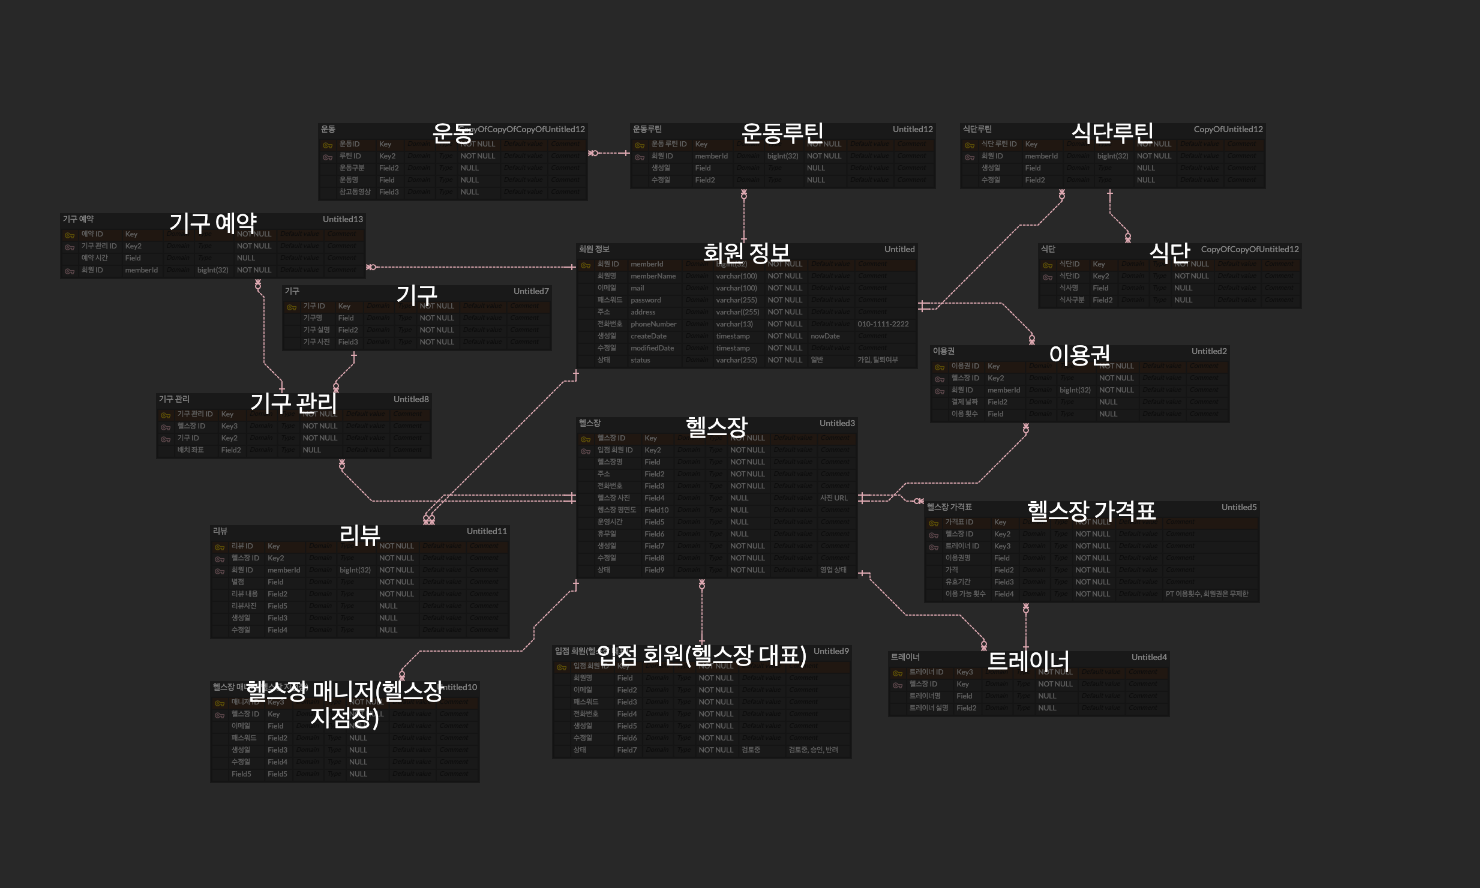
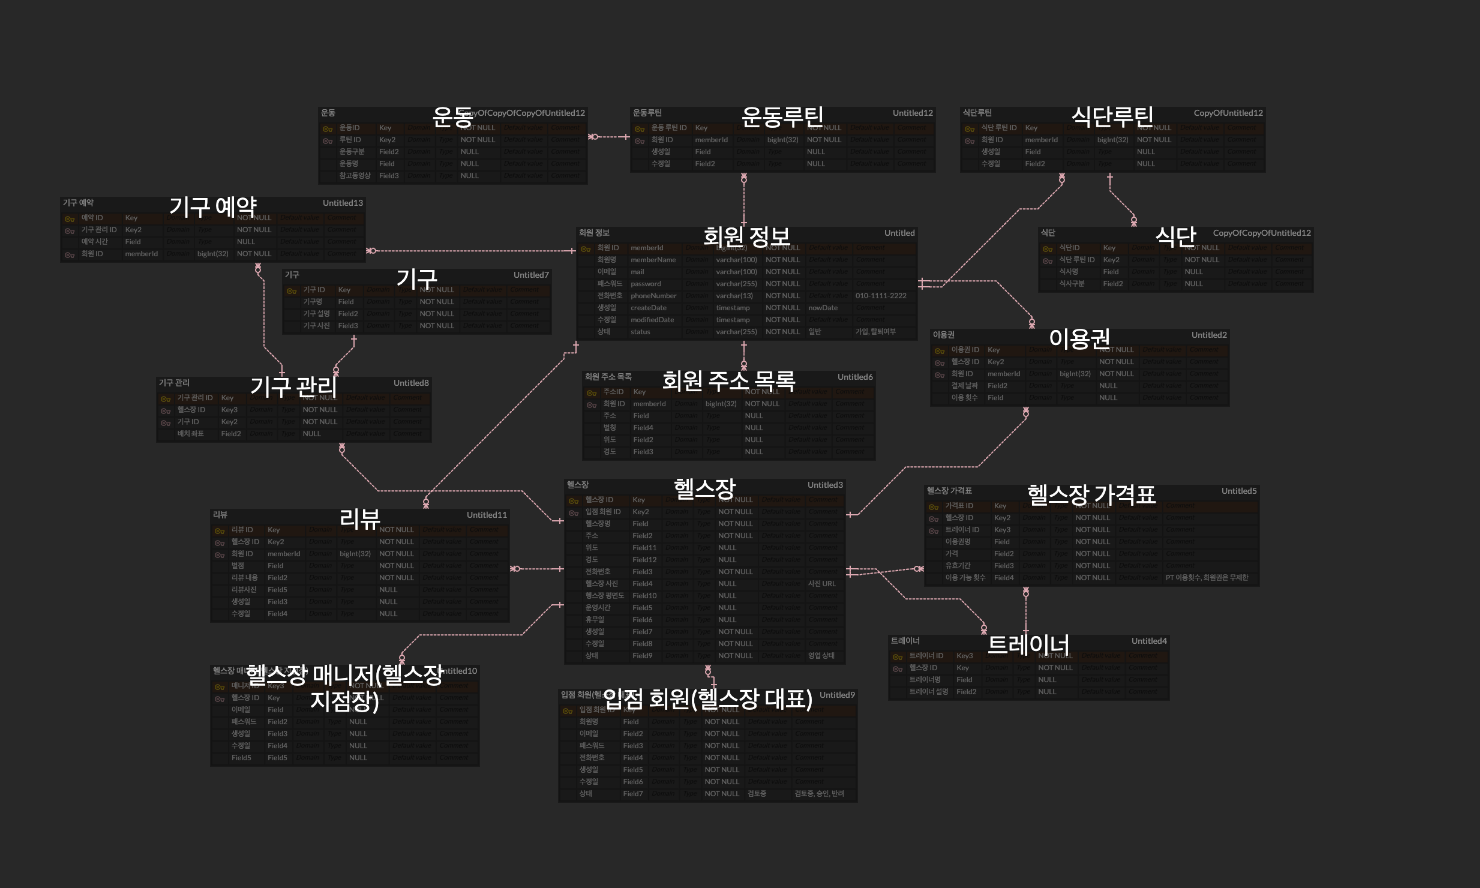
[#6]회원 주소 목록 추가

diff --git a/README.md b/README.md
@@ -16,17 +16,17 @@
 ![ERD](./엔티티2.png)
 
 ## 데이터 흐름도
-
+S
 
 ## 기술 및 스택
 
 ### 백엔드
 - 스프링부트
 - Docker
-- Redis
 
 ### 데이터베이스
 - MySQL
+- Redis
 
 ### 외부 API
 - 구글 맵 api
